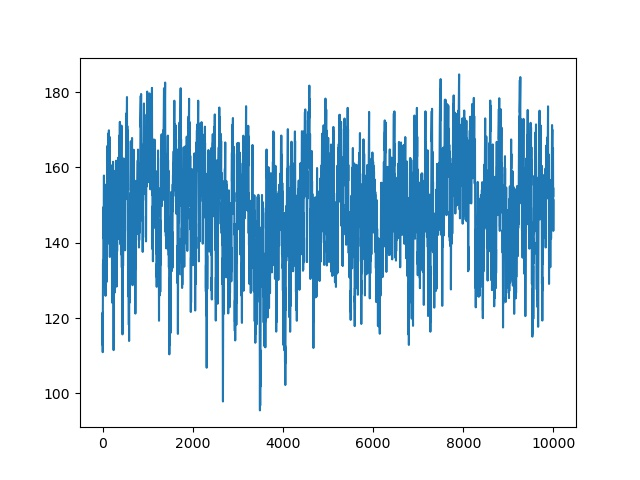
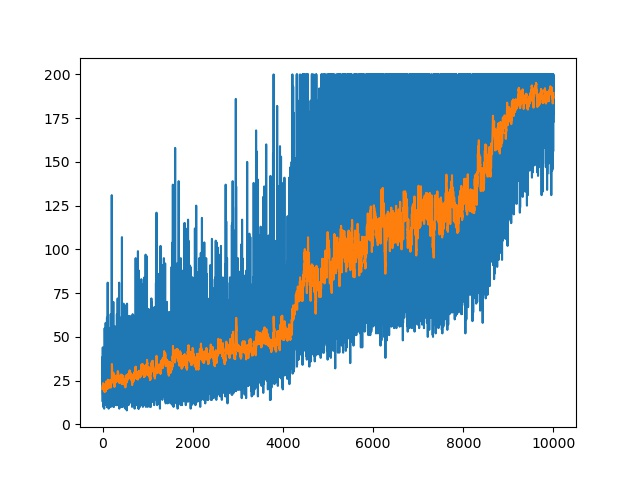
add random smoothing

diff --git a/Agent.py b/Agent.py
@@ -17,7 +17,10 @@ class Agent:
         self.network_sync_counter = 0
         self.gamma = gamma
         self.exp_replay_size = exp_replay_size
-        self.experience_replay = deque(maxlen=exp_replay_size)  
+        self.experience_replay = deque(maxlen=exp_replay_size)
+
+        self.relu = nn.ReLU()
+        self.icdf = torch.distributions.normal.Normal(0,1).icdf
 
     def initialize(self, env):
         index = 0
@@ -79,8 +82,8 @@ class Agent:
         sn = torch.tensor([exp[3] for exp in sample]).float()   
         return s, a, rn, sn
     
-    def compute_loss(self, batch_size):
-        s, _, rn, sn = self.sample_from_experience( sample_size = batch_size)
+    def compute_loss(self, batch_size, reg=False):
+        s, a, rn, sn = self.sample_from_experience( sample_size = batch_size)
         if(self.network_sync_counter == self.network_sync_freq):
             self.target_net.load_state_dict(self.q_net.state_dict())
             self.network_sync_counter = 0
@@ -93,9 +96,22 @@ class Agent:
         q_next = self.get_q_next(sn)
         target_return = rn + self.gamma * q_next
         
-        loss = self.loss_fn(pred_return, target_return)
-        self.network_sync_counter += 1       
-        return loss
+        q_loss = self.loss_fn(pred_return, target_return)
+        self.network_sync_counter += 1
+
+        reg_loss = None
+        if reg:
+            K, sigma, gamma, lambd = reg['K'], reg['sigma'], reg['gamma'], reg['lambda']
+            for i in range(len(self.q_net)-2):
+                s = self.q_net[i](s)
+            si = [s+torch.randn(size=s.shape) * sigma for _ in range(K)]
+            ai = [self.q_net[-1](self.q_net[-2](s)) for s in si]
+            ai = [torch.exp(a) / torch.sum(torch.exp(a), axis=1, keepdim=True) for a in ai]
+            ai = torch.stack(ai, axis=2)
+            eps = 1e-3
+            ai = self.icdf((1-eps) * torch.mean(ai, axis=2) + eps / 2)
+            reg_loss = lambd * torch.mean(self.relu(gamma - self.relu((ai[:,1] - ai[:,0]) * (2 * a - 1))))
+        return q_loss, reg_loss
 
     def save(self, path):
         print(f'model saved at {path}')

diff --git a/train_DQN.py b/train_DQN.py
@@ -1,4 +1,5 @@
 import gym
+import torch
 from Agent import Agent
 from vars import *
 import matplotlib.pyplot as plt
@@ -30,10 +31,14 @@ for i in range(N_EPISODES):
         if(index > EXP_REPLAY_SIZE / 2):
             index = 0
             for _ in range(4):
-                loss = agent.compute_loss(batch_size=BATCH_SIZE)
+                q_loss, reg_loss = agent.compute_loss(batch_size=BATCH_SIZE, reg={'K': 3, 'gamma': 2, 'sigma': 0.5, 'lambda': 0.01})
+                loss = q_loss + reg_loss
                 agent.optimizer.zero_grad()
                 loss.backward(retain_graph=True)
                 agent.optimizer.step()
+
+    if i % 100 == 0:         
+        print(f'episode {i}: {q_loss.item()}, {reg_loss.item()}.')
 
     if epsilon > EPS_END:
         epsilon -= (1 / EPS_DECAY)
